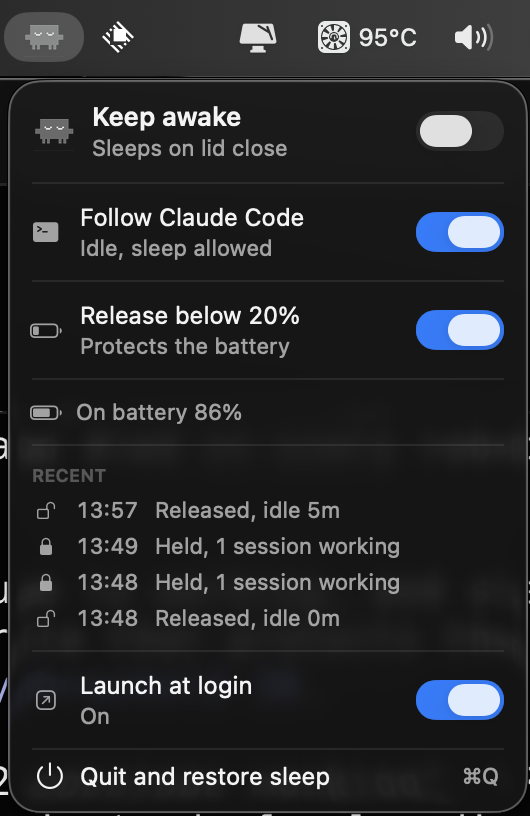
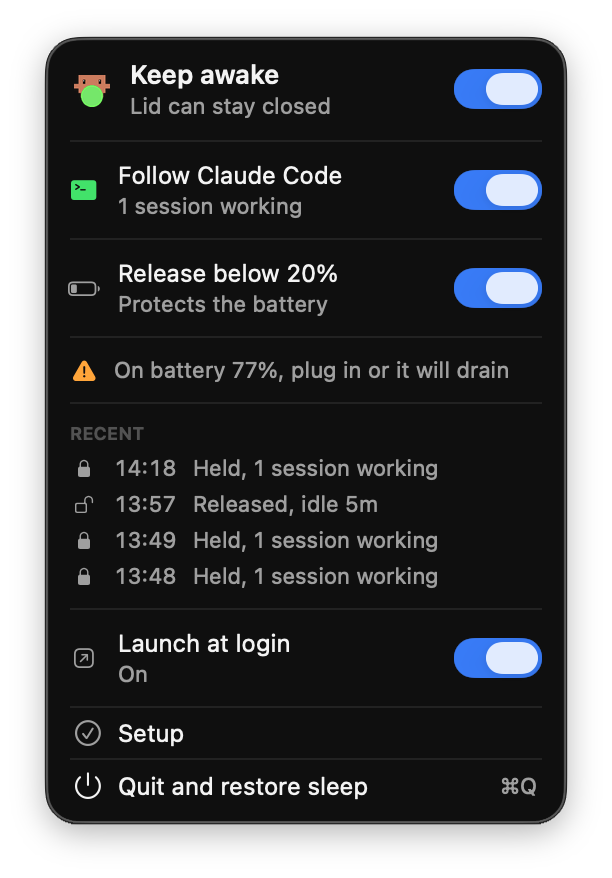
docs: better screenshot, showing the app awake with a session working

diff --git a/README.md b/README.md
@@ -6,7 +6,7 @@
 
 **Keep your Mac awake with the lid closed, automatically, only while Claude Code is actually working.**
 
-<img src="docs/panel.png" width="330" alt="The StayAwake panel">
+<img src="docs/panel.png" width="306" alt="The StayAwake panel: awake, following Claude Code, with one session working">
 
 </div>
 
